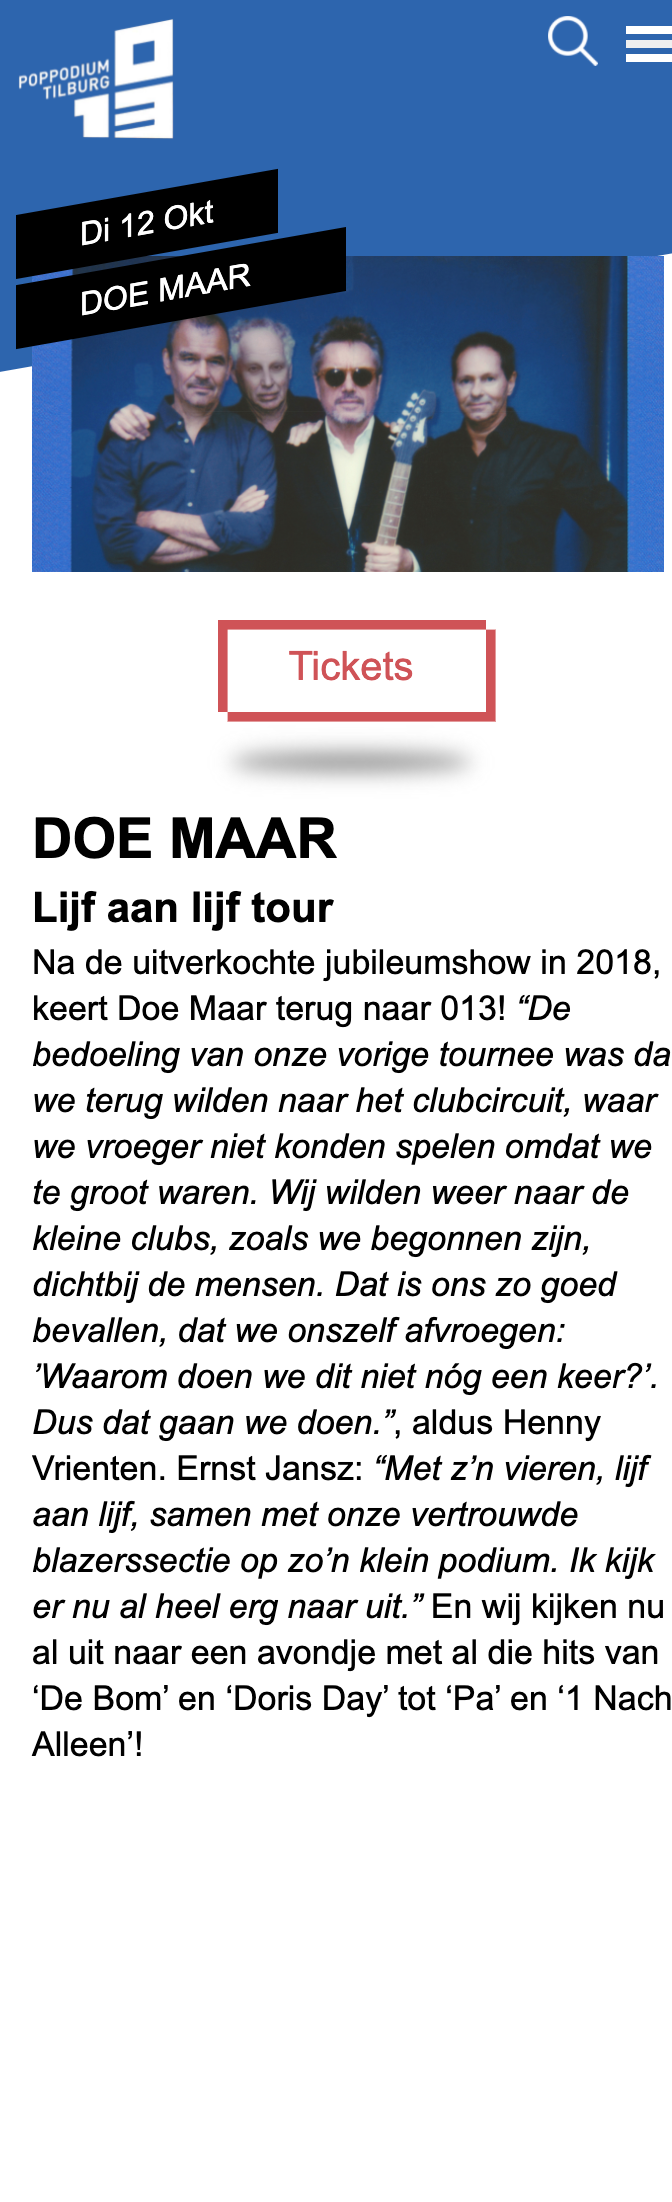
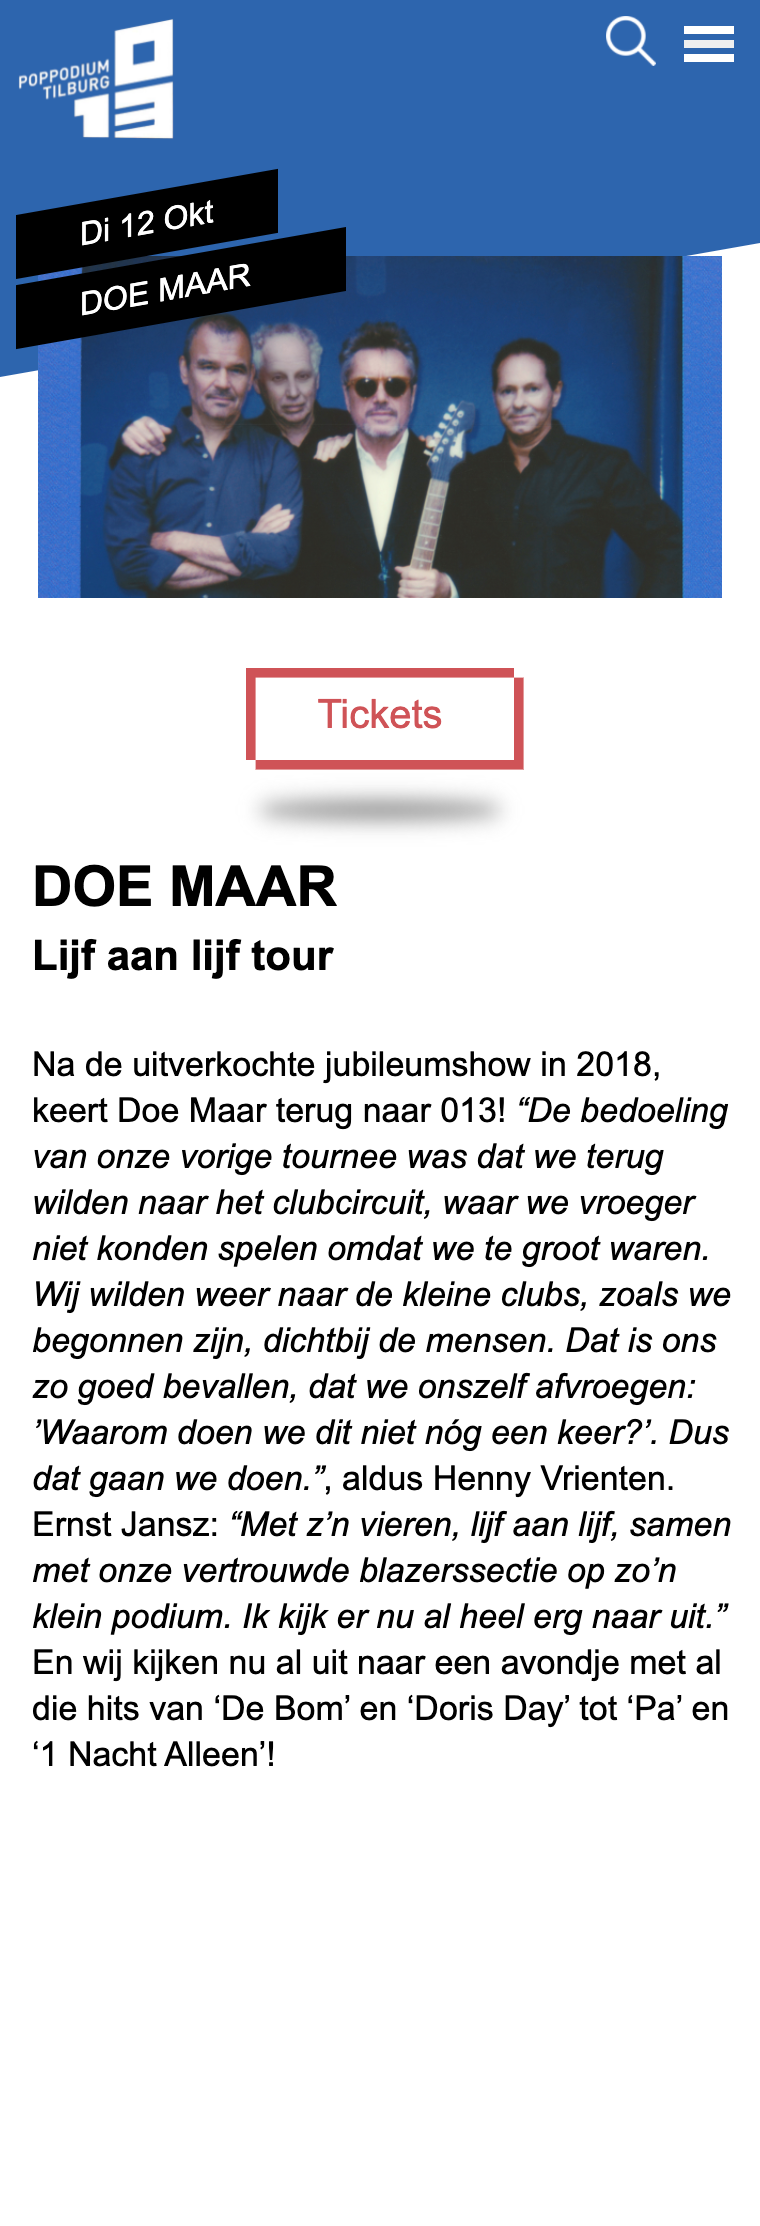
Add files via upload

Changed region(s): [[0.0, 0.0, 1.0, 0.8029], [0.7812, 0.0, 1.0, 0.0309]]

diff --git a/styles/style.css b/styles/style.css
@@ -605,7 +605,7 @@ section:nth-of-type(2) p{
 #detail article h3{
   text-transform: inherit;
 
-  margin-bottom: .2em;
+  margin-bottom: 1.5em;
 
   font-size: 21px;
 }
